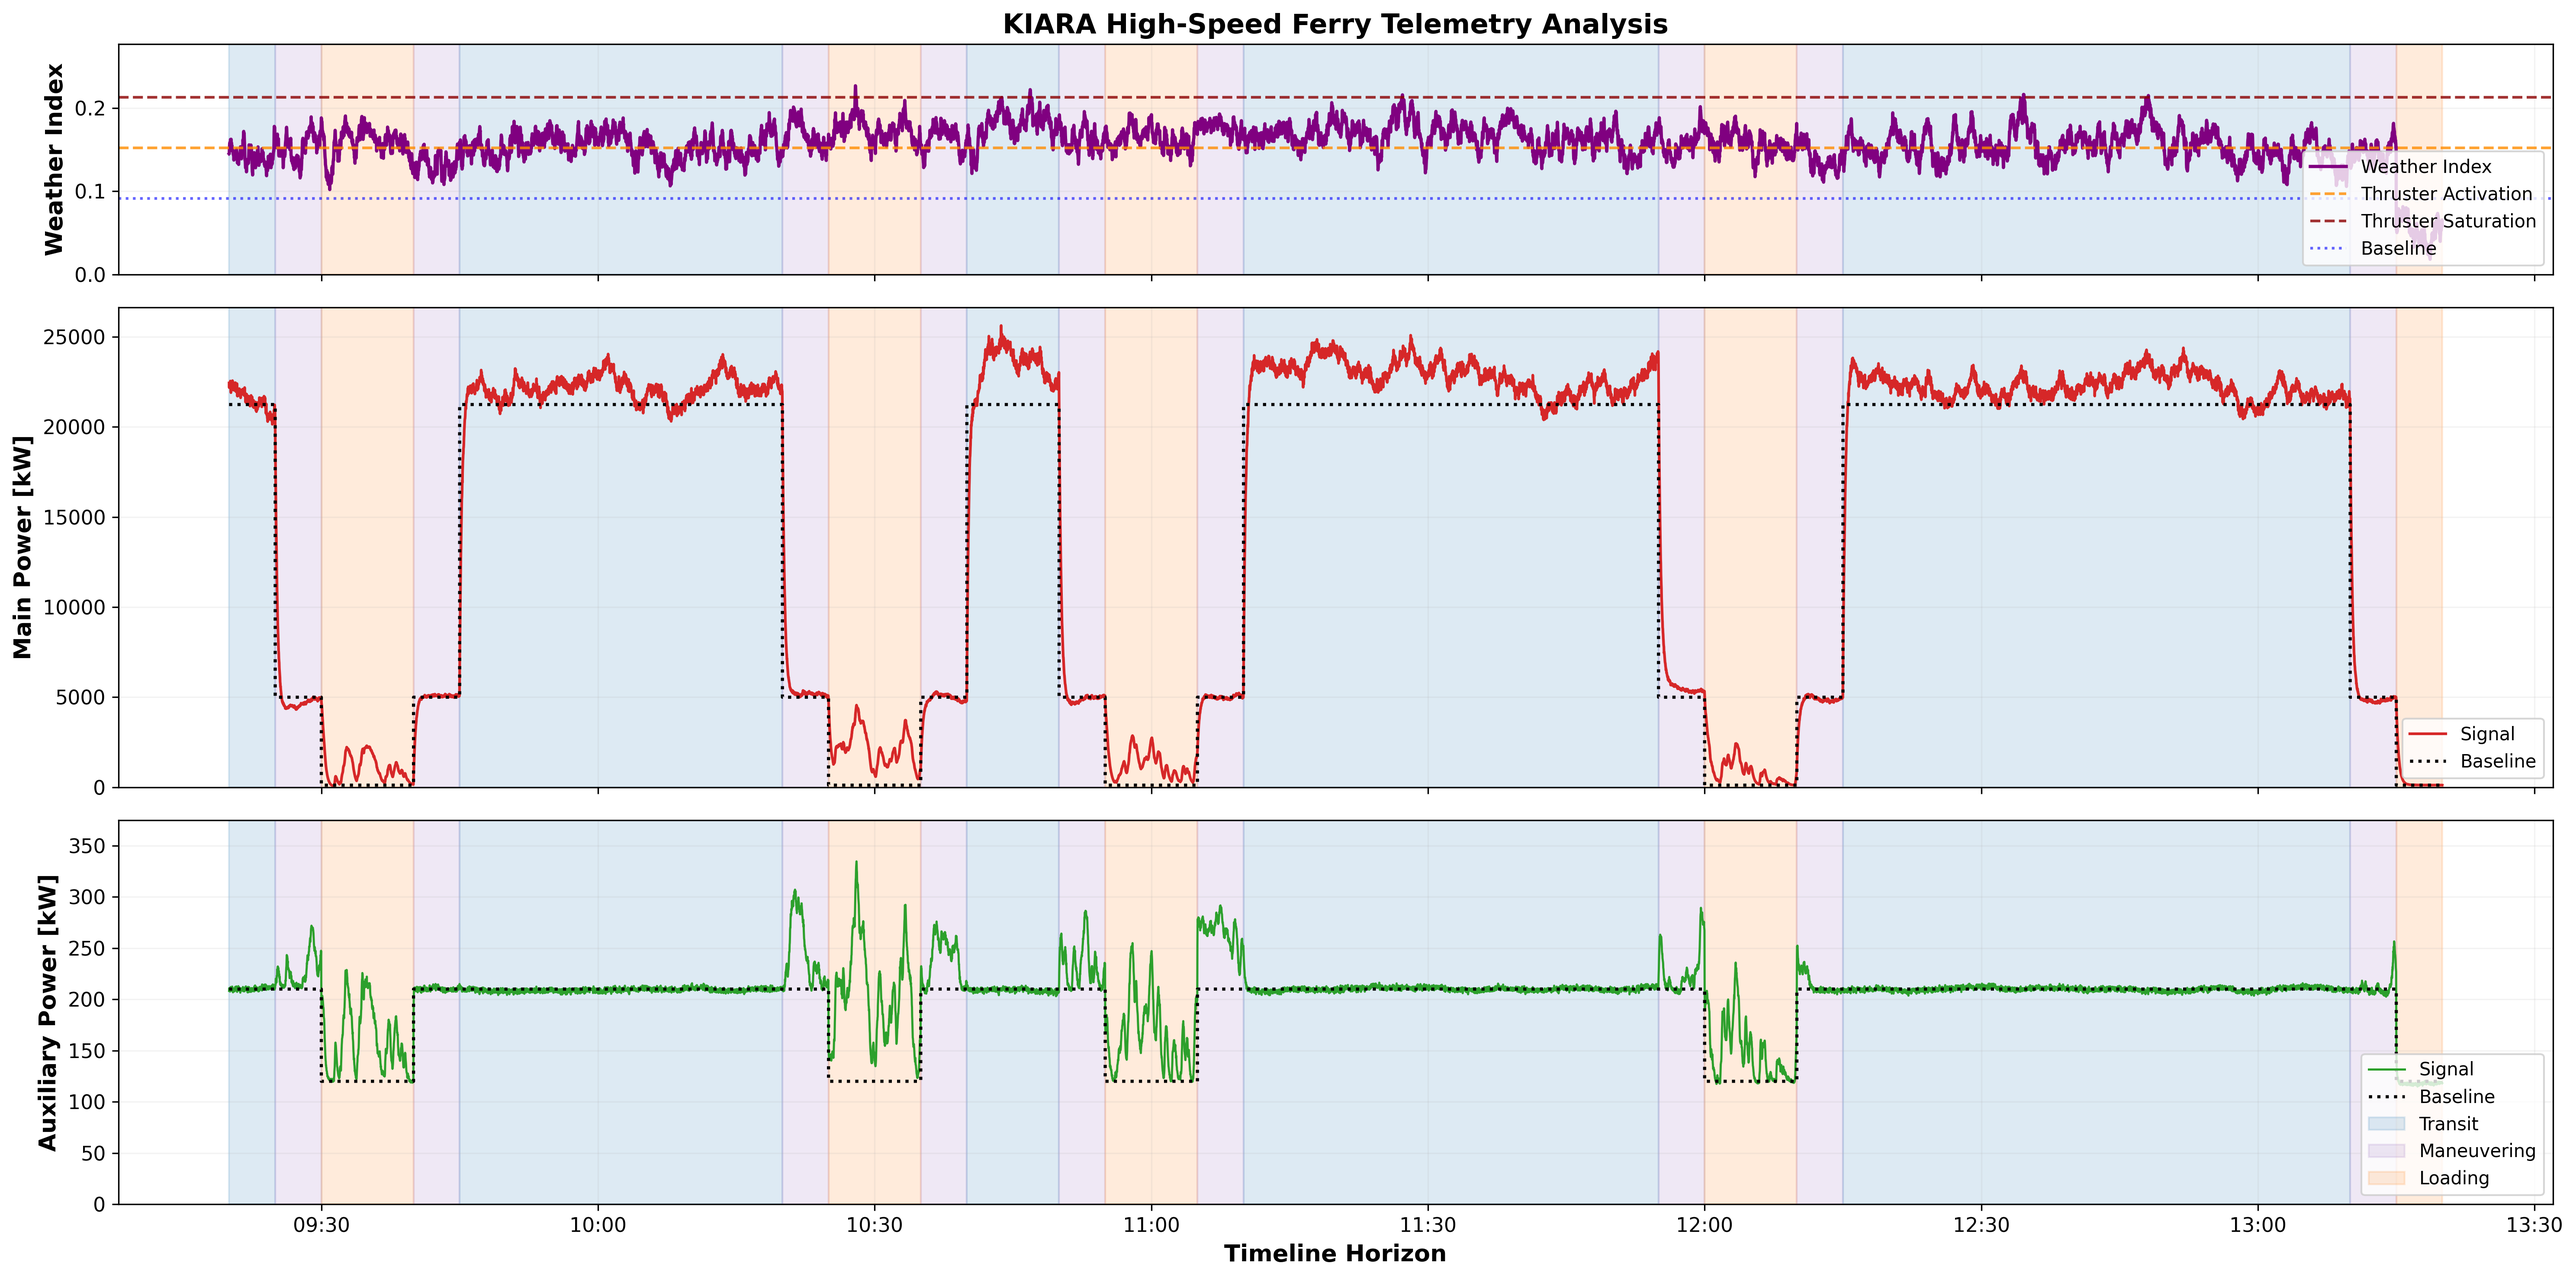
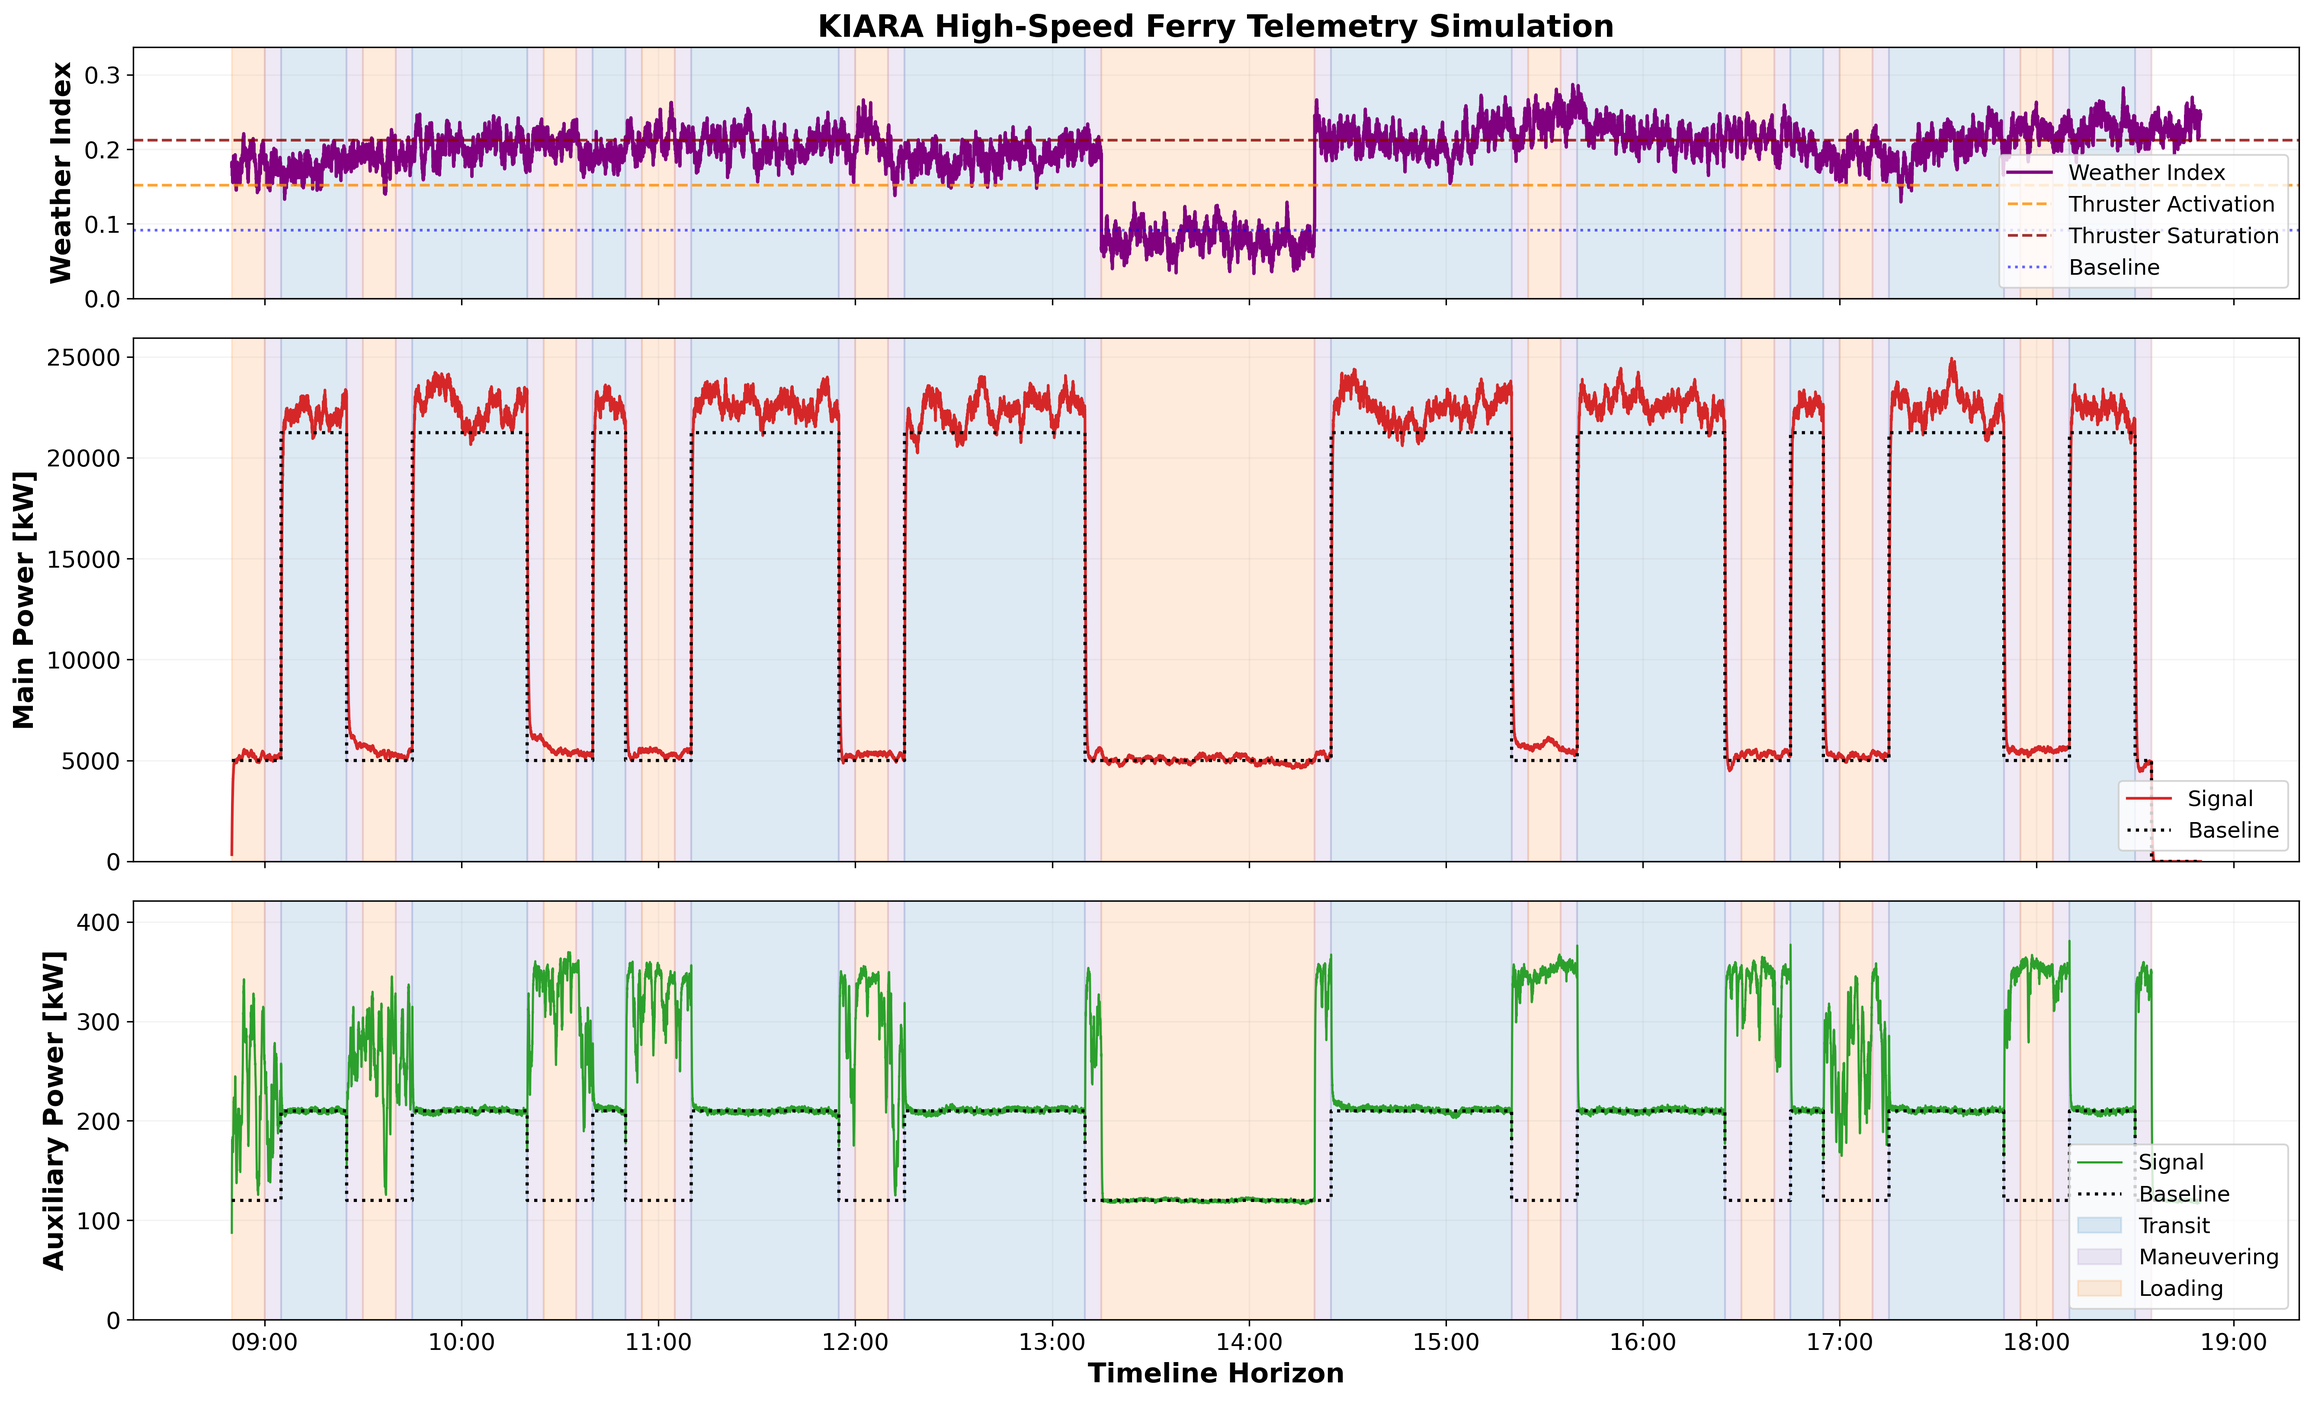
updated plots for the presentation and adjusted the power loads

diff --git a/kiara/src/utils/viz.py b/kiara/src/utils/viz.py
@@ -68,7 +68,7 @@ def generate_core_plot(df_slice, df_timeline, nominal_main, nominal_aux, tunable
         ax.grid(True, alpha=0.15)
         ax.legend(loc='lower right', fontsize=f_size - 1)
         if ax_idx == 0:
-            ax.set_title("KIARA High-Speed Ferry Telemetry Analysis", fontweight='bold')
+            ax.set_title("KIARA High-Speed Ferry Telemetry Simulation", fontweight='bold')
         ax_idx += 1
 
     # Tier 2: Main Propulsion Configuration
@@ -83,7 +83,7 @@ def generate_core_plot(df_slice, df_timeline, nominal_main, nominal_aux, tunable
         ax.grid(True, alpha=0.15)
         ax.legend(loc='lower right', fontsize=f_size - 1)
         if ax_idx == 0:
-            ax.set_title("KIARA High-Speed Ferry Telemetry Analysis", fontweight='bold')
+            ax.set_title("KIARA High-Speed Ferry Telemetry Simulation", fontweight='bold')
         ax_idx += 1
 
     # Tier 3: Electrical Auxiliary Infrastructure Configuration
@@ -99,7 +99,7 @@ def generate_core_plot(df_slice, df_timeline, nominal_main, nominal_aux, tunable
         ax.grid(True, alpha=0.15)
         ax.legend(loc='lower right', fontsize=f_size - 1)
         if ax_idx == 0:
-            ax.set_title("KIARA High-Speed Ferry Telemetry Analysis", fontweight='bold')
+            ax.set_title("KIARA High-Speed Ferry Telemetry Simulation", fontweight='bold')
         ax_idx += 1
 
     # Apply x-axis date layouts to bottom-most active plot pane
@@ -173,7 +173,7 @@ def build_interactive_dashboard(schedule_path, weather_path):
     
     # --- COLUMN 2: WEATHER PROFILE ---
     month_dd = widgets.Dropdown(options=month_options, value='1', description='Month:', style=style, layout=w_layout)
-    w0_slider = widgets.FloatSlider(value=0.15, min=0.0, max=1.0, step=0.05, description='Initial Weather Level (W0):', style=style, layout=w_layout)
+    w0_slider = widgets.FloatSlider(value=0.15, min=0.0, max=1.0, step=0.01, description='Initial Weather Level (W0):', style=style, layout=w_layout)
     rng_seed_w = widgets.IntSlider(value=16, min=1, max=100, description='RNG Seed:', style=style, layout=w_layout)
     gust_frac = widgets.FloatSlider(value=50.0, min=0.0, max=100.0, step=5.0, description='Wind Gust Turbulence (%):', style=style, layout=w_layout)
     
@@ -184,7 +184,7 @@ def build_interactive_dashboard(schedule_path, weather_path):
     maneuver_time_w = widgets.FloatSlider(value=5.0, min=2.0, max=12.0, step=0.5, description='Maneuver Time (Mins):', style=style, layout=w_layout)
     
     # --- CATEGORY 4: PRESENTATION SNAPSHOT CONTROLS (Accordion Menu) ---
-    font_size_w = widgets.IntSlider(value=11, min=8, max=24, description='Presentation Font Size:', style=style, layout=w_layout)
+    font_size_w = widgets.IntSlider(value=13, min=8, max=24, description='Presentation Font Size:', style=style, layout=w_layout)
     fig_width_w = widgets.FloatSlider(value=16.0, min=8.0, max=24.0, step=0.5, description='Figure Width:', style=style, layout=w_layout)
     fig_height_w = widgets.FloatSlider(value=11.0, min=6.0, max=20.0, step=0.5, description='Figure Height:', style=style, layout=w_layout)
     

diff --git a/kiara/src/config/vessel_specs.py b/kiara/src/config/vessel_specs.py
@@ -24,13 +24,13 @@ POWER_CONFIG = {
 
     # Dynamic Power Benchmarks (kW)
     'P_main_sea': 21240,       
-    'P_main_port_base': 120,   
+    'P_main_port_base': 5000,   
     'P_main_port_max': 5400,   
     'P_main_maneuver': 5000,   
     
     'P_aux_sea': 210,
     'P_aux_port_base': 120,
-    'P_aux_maneuver': 210,
+    'P_aux_maneuver': 120,
     'P_aux_spike_max': 350,    
     'P_aux_hotel': 120,        
 
